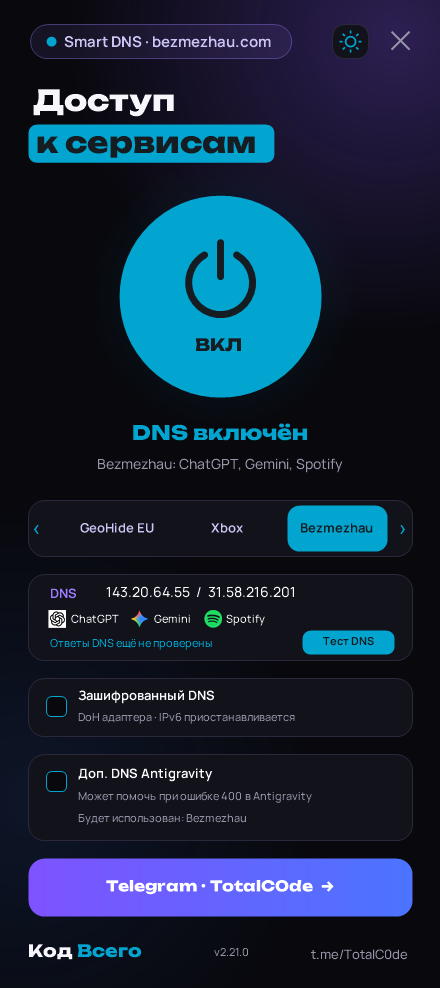
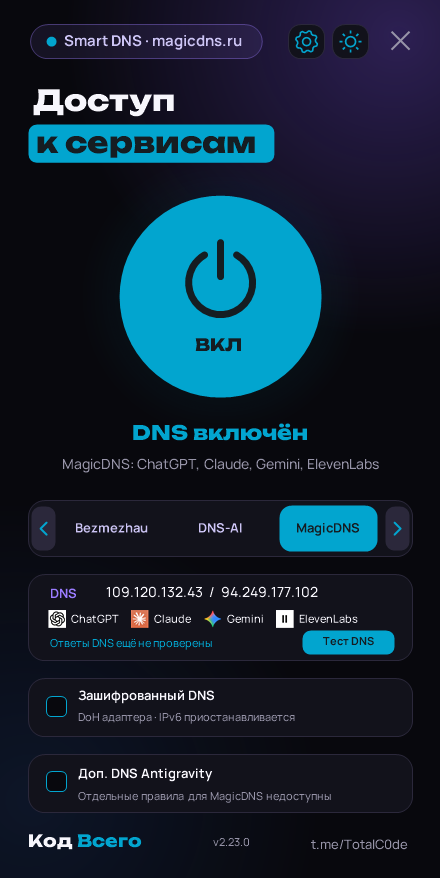
Add MagicDNS and clarify DoH availability; improve Android dialogs and widget fallback

diff --git a/XboxDns.cs b/XboxDns.cs
@@ -22,22 +22,22 @@ namespace HbAi.XboxDns
         // Сервисы Smart DNS. Проверено 12.10.2026 из России: Comss.one и GeoHide (Европа) отдают прокси для ChatGPT,
         // Claude, Gemini и ElevenLabs, российский узел GeoHide — для Gemini и ElevenLabs. xbox-dns.ru с 10.10.2026
         // нейросети не пропускает (0.0.0.0). Astracat (135.106.217.200) 12.10.2026 не отвечал, из списка убран.
-        public static readonly string[] Name = { "Comss.one", "GeoHide", "GeoHide EU", "Xbox DNS", "Bezmezhau", "DNS-AI" };
+        public static readonly string[] Name = { "Comss.one", "GeoHide", "GeoHide EU", "Xbox DNS", "Bezmezhau", "DNS-AI", "MagicDNS" };
         public static readonly string[][] V4 = {
             new[] { "83.220.169.155", "212.109.195.93" },
             new[] { "159.194.200.33", "193.233.112.67" },
             new[] { "143.20.64.192", "45.13.237.213" },
             new[] { "111.88.96.54", "111.88.96.55" },
             new[] { "143.20.64.55", "31.58.216.201" },
-            new[] { "194.87.196.13", "186.246.49.127" } };
+            new[] { "194.87.196.13", "186.246.49.127" }, new[] { "109.120.132.43", "94.249.177.102" } };
         public static readonly string[][] V6 = {
             new string[0], new string[0], new string[0],
-            new[] { "2a00:ab00:1233:26::50", "2a00:ab00:1233:26::51" }, new string[0], new string[0] };
+            new[] { "2a00:ab00:1233:26::50", "2a00:ab00:1233:26::51" }, new string[0], new string[0], new string[0] };
         public static readonly string[] Opens = {
             "ChatGPT, Claude, Gemini, ElevenLabs", "ChatGPT, Claude, Gemini, ElevenLabs",
-            "ChatGPT, Claude, Gemini, ElevenLabs", "только Xbox Live, нейросети — нет", "ChatGPT, Gemini, Spotify", "AI-сервисы · только DoH" };
-        public static readonly string[] Site = { "comss.ru", "geohide.ru", "geohide.ru", "xbox-dns.ru", "bezmezhau.com", "dns-ai.ru" };
-        public static readonly string[] Url = { "https://www.comss.ru/", "https://geohide.ru/", "https://geohide.ru/", "https://xbox-dns.ru/", "https://bezmezhau.com/", "https://dns-ai.ru/#setup" };
+            "ChatGPT, Claude, Gemini, ElevenLabs", "только Xbox Live, нейросети — нет", "ChatGPT, Gemini, Spotify", "AI-сервисы · только DoH", "ChatGPT, Claude, Gemini, ElevenLabs" };
+        public static readonly string[] Site = { "comss.ru", "geohide.ru", "geohide.ru", "xbox-dns.ru", "bezmezhau.com", "dns-ai.ru", "magicdns.ru" };
+        public static readonly string[] Url = { "https://www.comss.ru/", "https://geohide.ru/", "https://geohide.ru/", "https://xbox-dns.ru/", "https://bezmezhau.com/", "https://dns-ai.ru/#setup", "https://magicdns.ru/" };
         internal static bool EncryptedOnly(int provider) { return provider == 5; }
         // Старые адреса xbox-dns.ru из версии 1.0: если стоят они, показываем Xbox DNS
         static readonly string[] XboxOld = { "111.88.96.50", "111.88.96.51" };
@@ -1007,8 +1007,8 @@ namespace HbAi.XboxDns
             using (var body = UiFont(fMed, 8f))
             using (var ink = new SolidBrush(Ink))
             using (var muted = new SolidBrush(Muted)) {
-                g.DrawString("Зашифрованный DNS", title, ink, 76, LowerY(686));
-                g.DrawString(EncryptedDns.Templates[dnsSet] == null ? "DoH: Comss.one, GeoHide, Bezmezhau или DNS-AI" : secureDns && (agStatus.External || agStatus.Checked) ? "DoH · Antigravity по отдельным правилам" : "DoH адаптера · IPv6 приостанавливается", body, muted, 76, LowerY(710));
+                g.DrawString(EncryptedDns.Templates[dnsSet] == null ? "DoH недоступен" : "Зашифрованный DNS", title, ink, 76, LowerY(686));
+                g.DrawString(EncryptedDns.Templates[dnsSet] == null ? "У этого провайдера настроен только обычный DNS" : secureDns && (agStatus.External || agStatus.Checked) ? "DoH · Antigravity по отдельным правилам" : "DoH адаптера · IPv6 приостанавливается", body, muted, 76, LowerY(710));
             }
             using (var path = RoundPath(rAgOption, 16))
             using (var fill = new SolidBrush(CardBg))
@@ -1032,7 +1032,7 @@ namespace HbAi.XboxDns
                     agStatus.RecoveryNeeded ? "Снимите галочку: завершить восстановление" : agStatus.External ? "Есть правила другой программы" : agStatus.Checked ?
                     (agStatus.Complete ? (agStatus.Provider == 1 ? "Comss: смените DNS" : "Включено · " + (agStatus.Provider >= 0 ? AntigravityDns.ProviderNames[agStatus.Provider] : "DNS")) +
                         (agStatus.Provider != AntigravityDns.ProviderForMainSet(dnsSet) ? " · смена после отключения" : "") : "Включено частично · снимите для отмены") :
-                    (cleanupDone ? "Старые правила удалены" : secureDns ? "" : dnsSet == 0 ? "Comss для этой опции отключён" : dnsSet == 3 ? "Выберите DNS для нейросетей выше" : "Будет использован: " + Dns.Name[dnsSet]);
+                    (cleanupDone ? "Старые правила удалены" : secureDns ? "" : dnsSet == 0 ? "Comss для этой опции отключён" : dnsSet == 3 ? "Выберите DNS для нейросетей выше" : dnsSet == 6 ? "Отдельные правила для MagicDNS недоступны" : "Будет использован: " + Dns.Name[dnsSet]);
                 bool showCleanup = agStatus.External;
                 using (var format = new StringFormat { FormatFlags = StringFormatFlags.NoWrap, Trimming = StringTrimming.EllipsisCharacter })
                     g.DrawString(string.IsNullOrEmpty(note)?"Может помочь при ошибке 400 в Antigravity":note, body, muted, new RectangleF(76, LowerY(788), showCleanup ? W-242 : W-120, 22), format);
@@ -1158,9 +1158,10 @@ namespace HbAi.XboxDns
             if (rVersion.Contains(e.Location)) { ShowUpdates(); return; }
             if (initializing) return;
             if (rSecureOption.Contains(e.Location)) {
+                if (EncryptedDns.Templates[dnsSet] == null) return;
                 if (busy) return;
                 if (Dns.EncryptedOnly(dnsSet)) { ShowMessage("DNS-AI работает только через зашифрованный DNS. Шифрование для него обязательно.", "DNS-AI", MessageBoxButtons.OK, MessageBoxIcon.Information); return; }
-                if (!secureDns && EncryptedDns.Templates[dnsSet] == null) { ShowMessage("Выберите Comss.one, GeoHide, Bezmezhau или DNS-AI. Для остальных провайдеров параметры системного DoH пока не подтверждены.", "Зашифрованный DNS", MessageBoxButtons.OK, MessageBoxIcon.Information); return; }
+                if (!secureDns && EncryptedDns.Templates[dnsSet] == null) { ShowMessage("Выберите Comss.one, GeoHide, Bezmezhau, DNS-AI или MagicDNS. Для остальных провайдеров параметры системного DoH пока не подтверждены.", "Зашифрованный DNS", MessageBoxButtons.OK, MessageBoxIcon.Information); return; }
                 if (active) Apply(true, null, false, !secureDns); else { secureDns = !secureDns; Invalidate(); }
                 return;
             }
@@ -1191,7 +1192,7 @@ namespace HbAi.XboxDns
             double dx = e.X - c.X, dy = e.Y - c.Y;
             bool overPower = dx * dx + dy * dy <= rToggle.Width * rToggle.Width / 4.0;
             if (powerHovered != overPower) { powerHovered = overPower; Invalidate(rToggleGlow()); }
-            bool hand = rSettings.Contains(e.Location) || rVersion.Contains(e.Location) || rSecureOption.Contains(e.Location) || rAgOption.Contains(e.Location) || rTheme.Contains(e.Location) || rClose.Contains(e.Location) || rGroup.Contains(e.Location) || rSite.Contains(e.Location) || rBrand.Contains(e.Location) || ProviderBar.Contains(e.Location) || DnsTestButton.Contains(e.Location)
+            bool hand = rSettings.Contains(e.Location) || rVersion.Contains(e.Location) || (rSecureOption.Contains(e.Location) && EncryptedDns.Templates[dnsSet] != null) || rAgOption.Contains(e.Location) || rTheme.Contains(e.Location) || rClose.Contains(e.Location) || rGroup.Contains(e.Location) || rSite.Contains(e.Location) || rBrand.Contains(e.Location) || ProviderBar.Contains(e.Location) || DnsTestButton.Contains(e.Location)
                         || dx * dx + dy * dy <= rToggle.Width * rToggle.Width / 4.0;
             Cursor = hand && !busy ? Cursors.Hand : Cursors.Default;
             string tip = rSettings.Contains(e.Location)?"Настройки":providerPrevious.Contains(e.Location)?"Предыдущие 3 варианта":providerNext.Contains(e.Location)?"Следующие 3 варианта":rVersion.Contains(e.Location)?"Проверить обновления":rTheme.Contains(e.Location) ? (darkTheme ? "Светлая тема" : "Тёмная тема") : null;
@@ -1395,7 +1396,7 @@ namespace HbAi.XboxDns
         void RunDnsTest(StyledDialog dialog, int provider)
         {
             bool encrypted = secureDns || Dns.EncryptedOnly(provider);
-            if (encrypted && EncryptedDns.Templates[provider] == null) { dialog.ShowDnsTestStatus("Для этого провайдера HTTPS-тест пока недоступен. Выберите Comss.one, GeoHide, Bezmezhau или DNS-AI. Обычные DNS-запросы не отправлялись.", "Нет параметров DoH", false, true); return; }
+            if (encrypted && EncryptedDns.Templates[provider] == null) { dialog.ShowDnsTestStatus("Для этого провайдера HTTPS-тест пока недоступен. Выберите Comss.one, GeoHide, Bezmezhau, DNS-AI или MagicDNS. Обычные DNS-запросы не отправлялись.", "Нет параметров DoH", false, true); return; }
             if (!NetworkCheck.HasConnection()) { dialog.ShowDnsTestStatus(NetworkCheck.OfflineMessage, "Нет подключения", false, true); return; }
             var vpn = VpnCheck.Scan();
             if (vpn.NeedsAttention)
@@ -1429,8 +1430,8 @@ namespace HbAi.XboxDns
         {
             if (busy || (k == dnsSet && autoGoal < 0&&!UseDefaultGoal)) return;
             manualSelection=true;
-            if (active) Apply(true, k);
-            else { autoGoal = -1; dnsSet = k; if (Dns.EncryptedOnly(k)) secureDns = true; EnsureProviderVisible(); Invalidate(); }
+            if (active) Apply(true, k, encrypted: EncryptedDns.Templates[k] != null && secureDns || Dns.EncryptedOnly(k));
+            else { autoGoal = -1; dnsSet = k; if (Dns.EncryptedOnly(k)) secureDns = true; else if (EncryptedDns.Templates[k] == null) secureDns = false; EnsureProviderVisible(); Invalidate(); }
         }
 
         void Toggle()
@@ -1543,7 +1544,7 @@ namespace HbAi.XboxDns
         {
             int requestedSet = selectedSet ?? dnsSet;
             bool useEncrypted = (encrypted ?? secureDns) || Dns.EncryptedOnly(requestedSet);
-            if (turnOn && useEncrypted && EncryptedDns.Templates[requestedSet] == null) { ShowMessage("Для DoH выберите Comss.one, GeoHide, Bezmezhau или DNS-AI либо снимите галочку шифрования.", "DoH недоступен", MessageBoxButtons.OK, MessageBoxIcon.Information); return; }
+            if (turnOn && useEncrypted && EncryptedDns.Templates[requestedSet] == null) { ShowMessage("Для DoH выберите Comss.one, GeoHide, Bezmezhau, DNS-AI или MagicDNS либо снимите галочку шифрования.", "DoH недоступен", MessageBoxButtons.OK, MessageBoxIcon.Information); return; }
             bool keepAntigravity = false;
             if (turnOn)
             {

diff --git a/android/app/src/main/java/ru/kodvsego/smartdns/MainActivity.java b/android/app/src/main/java/ru/kodvsego/smartdns/MainActivity.java
@@ -25,11 +25,12 @@ public final class MainActivity extends Activity {
     private final ExecutorService tests=Executors.newSingleThreadExecutor();
     private android.content.SharedPreferences prefs;
     private boolean dark,rendering,testing,resumed;private int selected;
-    private LinearLayout content,serviceRow;private TextView state,addresses,probe;
+    private LinearLayout content,serviceRow;private TextView state,addresses,probe,encryptionHint;
     private PowerButton connect;private Button test;private Switch encrypted;private TextView providers;
     private int ink,muted,accent,card;
     private DnsConfig pending;
     private Dialog providerDialog;
+    private final java.util.List<Dialog> dialogs=new java.util.ArrayList<>();
     private Future<?> runningTest;private int testGeneration;
     private Typeface heading,body,bold;
     private final Map<String,Drawable.ConstantState> iconCache=new HashMap<>();
@@ -92,9 +93,9 @@ public final class MainActivity extends Activity {
         LinearLayout.LayoutParams pickerParams=new LinearLayout.LayoutParams(-1,-2);pickerParams.setMargins(0,dp(8),0,dp(12));selection.addView(providers,pickerParams);
         addresses=text("",13,ink,false);selection.addView(addresses);serviceRow=new LinearLayout(this);serviceRow.setOrientation(LinearLayout.VERTICAL);selection.addView(serviceRow);
         space(20);LinearLayout settings=box();
-        encrypted=new Switch(this);encrypted.setText(R.string.encrypted_dns);encrypted.setTypeface(body);encrypted.setTextColor(ink);encrypted.setMinHeight(dp(48));settings.addView(encrypted);
+        encrypted=new Switch(this);encrypted.setId(R.id.encrypted_dns_switch);encrypted.setText(R.string.encrypted_dns);encrypted.setTypeface(body);encrypted.setTextColor(ink);encrypted.setMinHeight(dp(48));settings.addView(encrypted);
         encrypted.setChecked(prefs.getBoolean("encrypted",false)||Provider.at(selected).encryptedOnly);
-        settings.addView(text("DoH шифрует DNS-запросы. При ошибке перехода на обычный DNS нет.",12,muted,false));
+        encryptionHint=text("",12,muted,false);settings.addView(encryptionHint);
         space(20);test=button(testing?"Остановить тест":"Тест DNS");content.addView(test);test.setOnClickListener(v->testDns());
         probe=text("Тест не меняет DNS. Проверяется ответ провайдера, а не доступ к аккаунту или сайту.",13,muted,false);content.addView(probe);
         space(20);Button widgets=secondaryButton("Добавить виджет");widgets.setId(R.id.add_widget);content.addView(widgets);widgets.setOnClickListener(v->chooseWidget());
@@ -141,6 +142,8 @@ public final class MainActivity extends Activity {
     }
     private void updateProvider() {
         Provider p=Provider.at(selected);
+        encrypted.setText(p.doh==null?"Зашифрованный DNS · недоступен":getString(R.string.encrypted_dns));
+        encryptionHint.setText(p.doh==null?"Для "+p.name+" настроен только обычный DNS.":"DoH шифрует DNS-запросы. При ошибке перехода на обычный DNS нет.");
         providers.setText(p.name);providers.setContentDescription("Провайдер DNS: "+p.name+". Выбрать другой");
         updatingProvider=true;
         if(p.encryptedOnly)encrypted.setChecked(true);else if(p.doh==null)encrypted.setChecked(false);
@@ -182,8 +185,10 @@ public final class MainActivity extends Activity {
     private void requestConnect() {
         try{pending=config();PhysicalNetwork.checkPrivateDns(this,PhysicalNetwork.find(this));}
         catch(Exception e){message("Не удалось подключиться",e.getMessage());return;}
-        if(PhysicalNetwork.otherVpn(this))new AlertDialog.Builder(this).setTitle("Другой VPN включён")
-            .setMessage("Android отключит другое VPN-подключение при включении Smart DNS. Продолжить?").setNegativeButton("Отмена",null).setPositiveButton("Продолжить",(d,w)->prepareVpn()).show();
+        if(PhysicalNetwork.otherVpn(this)){
+            CardDialog dialog=new CardDialog("Другой VPN включён","Android отключит другое VPN-подключение при включении Smart DNS. Продолжить?");
+            dialog.action("Продолжить",true,true,this::prepareVpn);dialog.action("Отмена",false,true,()->pending=null);dialog.show();
+        }
         else prepareVpn();
     }
     private void prepareVpn() {Intent permission=VpnService.prepare(this);if(permission==null)startDns();else startActivityForResult(permission,100);}
@@ -195,7 +200,29 @@ public final class MainActivity extends Activity {
         try{startForegroundService(start);}catch(Exception e){message("Ошибка подключения",e.getMessage());}pending=null;
     }
     @Override protected void onActivityResult(int request,int result,Intent data){super.onActivityResult(request,result,data);if(request==100){if(result==RESULT_OK){try{if(pending==null)pending=config();startDns();}catch(Exception e){message("Ошибка настройки",e.getMessage());}}else{pending=null;message("Подключение отменено","Разрешение VPN не предоставлено. DNS не изменён.");}}}
-    private void message(String title,String body){if(!isFinishing()&&!isDestroyed())new AlertDialog.Builder(this).setTitle(title).setMessage(body).setPositiveButton("Понятно",null).show();}
+    private void message(String title,String body){if(!isFinishing()&&!isDestroyed()){CardDialog dialog=new CardDialog(title,body);dialog.action("Понятно",true,true,()->{});dialog.show();}}
+    private final class CardDialog {
+        final Dialog dialog=new Dialog(MainActivity.this);
+        final LinearLayout panel=new LinearLayout(MainActivity.this);
+        final ScrollView scroll=new ScrollView(MainActivity.this);
+        final TextView description;
+        CardDialog(String title,String message){
+            dialog.requestWindowFeature(Window.FEATURE_NO_TITLE);panel.setOrientation(LinearLayout.VERTICAL);panel.setPadding(dp(24),dp(24),dp(24),dp(24));panel.setBackground(shape(card,24));
+            TextView heading=text(title,21,ink,true);panel.addView(heading);
+            description=text(message,14,muted,false);LinearLayout.LayoutParams textParams=new LinearLayout.LayoutParams(-1,-2);textParams.topMargin=dp(12);textParams.bottomMargin=dp(12);panel.addView(description,textParams);
+            scroll.setVerticalScrollBarEnabled(false);scroll.addView(panel);dialog.setContentView(scroll);
+            dialog.setOnDismissListener(d->dialogs.remove(dialog));dialogs.add(dialog);
+        }
+        void action(String label,boolean primary,boolean close,Runnable action){
+            Button button=primary?button(label):secondaryButton(label);LinearLayout.LayoutParams params=new LinearLayout.LayoutParams(-1,-2);params.topMargin=dp(12);panel.addView(button,params);
+            button.setOnClickListener(v->{if(close)dialog.dismiss();action.run();});
+        }
+        void show(){
+            if(isFinishing()||isDestroyed()){dialog.dismiss();return;}
+            Window window=dialog.getWindow();if(window!=null){window.setBackgroundDrawableResource(android.R.color.transparent);window.addFlags(WindowManager.LayoutParams.FLAG_DIM_BEHIND);window.setDimAmount(.6f);window.setWindowAnimations(R.style.ProviderSheetMotion);}
+            dialog.show();if(window!=null){int width=Math.min(getResources().getDisplayMetrics().widthPixels-dp(32),dp(440));int maxHeight=(int)(getResources().getDisplayMetrics().heightPixels*.85f);scroll.measure(View.MeasureSpec.makeMeasureSpec(width,View.MeasureSpec.EXACTLY),View.MeasureSpec.makeMeasureSpec(maxHeight,View.MeasureSpec.AT_MOST));window.setLayout(width,Math.min(scroll.getMeasuredHeight(),maxHeight));}
+        }
+    }
     private void testDns() {
         if(testing){testGeneration++;if(runningTest!=null)runningTest.cancel(true);testing=false;test.setText(R.string.test_dns);probe.setText(R.string.test_stopped);updateState();return;}
         final DnsConfig config;try{config=config();}catch(Exception e){message("Ошибка настройки",e.getMessage());return;}
@@ -226,11 +253,20 @@ public final class MainActivity extends Activity {
         else scroll.setPadding(insets.getSystemWindowInsetLeft(),insets.getSystemWindowInsetTop(),insets.getSystemWindowInsetRight(),insets.getSystemWindowInsetBottom());
     }
     private void chooseWidget(){
-        new AlertDialog.Builder(this).setTitle("Виджеты Smart DNS").setItems(new String[]{"Компактный · 2 × 1","Расширенный · 4 × 2"},(dialog,which)->{
-            AppWidgetManager manager=AppWidgetManager.getInstance(this);
-            if(manager.isRequestPinAppWidgetSupported())manager.requestPinAppWidget(new ComponentName(this,which==0?CompactDnsWidget.class:DnsWidget.class),null,null);
-            else message("Добавление виджета","Удерживайте пустое место на главном экране, откройте «Виджеты» и выберите Smart DNS.");
-        }).setNegativeButton("Отмена",null).show();
+        CardDialog dialog=new CardDialog("Виджеты Smart DNS","Выберите размер. Если лаунчер не показывает окно добавления, используйте ручной способ ниже.");
+        dialog.action("Компактный · 2 × 1",true,false,()->pinWidget(dialog,CompactDnsWidget.class));
+        dialog.action("Расширенный · 4 × 2",false,false,()->pinWidget(dialog,DnsWidget.class));
+        dialog.action("Как добавить вручную",false,true,()->message("Добавить виджет вручную",widgetInstructions()));
+        dialog.action("Закрыть",false,true,()->{});dialog.show();
+    }
+    private String widgetInstructions(){return getString(R.string.widget_manual_instructions);}
+    private void pinWidget(CardDialog dialog,Class<?> type){
+        AppWidgetManager manager=AppWidgetManager.getInstance(this);
+        WidgetPinning.Result result=WidgetPinning.request(new WidgetPinning.Launcher(){
+            public boolean supported(){return manager.isRequestPinAppWidgetSupported();}
+            public boolean request(){return manager.requestPinAppWidget(new ComponentName(MainActivity.this,type),null,null);}
+        });
+        dialog.description.setText(getString(result==WidgetPinning.Result.REQUESTED?R.string.widget_pin_requested:R.string.widget_pin_manual,widgetInstructions()));
     }
     private void handleWidgetIntent(){
         if(!DnsWidget.CONNECT.equals(getIntent().getAction()))return;
@@ -244,5 +280,5 @@ public final class MainActivity extends Activity {
     }
     @Override protected void onResume(){super.onResume();resumed=true;settleMotion();lastUiState=null;updateState();connect.resumeUi();handler.removeCallbacks(refresh);handler.post(refresh);DnsWidget.updateAll(this);}
     @Override protected void onPause(){resumed=false;handler.removeCallbacks(refresh);settleMotion();if(connect!=null)connect.pauseUi();super.onPause();}
-    @Override protected void onDestroy(){if(providerDialog!=null)providerDialog.dismiss();handler.removeCallbacksAndMessages(null);tests.shutdownNow();super.onDestroy();}
+    @Override protected void onDestroy(){if(providerDialog!=null)providerDialog.dismiss();for(Dialog dialog:new java.util.ArrayList<>(dialogs))dialog.dismiss();handler.removeCallbacksAndMessages(null);tests.shutdownNow();super.onDestroy();}
 }

diff --git a/tests/DnsProbe.Tests.cs b/tests/DnsProbe.Tests.cs
@@ -47,6 +47,8 @@ static class ProbeTests
         Check(Dns.MatchProvider(new[] {"195.133.25.16", "192.0.2.53"}) == -1, "Mixed encrypted Comss and custom resolver is rejected");
         Check(Dns.V4[0].SequenceEqual(new[] {"83.220.169.155", "212.109.195.93"}), "Comss plain DNS remains separate from its encrypted address");
         Check(Dns.EncryptedOnly(5) && EncryptedDns.Templates[5] == "https://dns.dns-ai.ru/dns-query" && Dns.V4[5].SequenceEqual(new[]{"194.87.196.13","186.246.49.127"}), "DNS-AI uses published addresses and requires encryption");
+        Check(Dns.Name[6]=="MagicDNS" && Dns.V4[6].SequenceEqual(new[]{"109.120.132.43","94.249.177.102"}) && EncryptedDns.Templates[6]=="https://dns.magicdns.ru/dns-query" && !Dns.EncryptedOnly(6), "MagicDNS supports published plain and HTTPS endpoints");
+        Check(new[]{Dns.V4.Length,Dns.V6.Length,Dns.Site.Length,Dns.Url.Length,Dns.Opens.Length,EncryptedDns.Templates.Length}.All(n=>n==Dns.Name.Length), "Provider metadata stays aligned for DNS changes and restoration");
         Check(DnsProbe.Targets(5).SequenceEqual(new[]{EncryptedDns.Templates[5]}), "DNS-AI tests target HTTPS only, not port 53");
         Check(DnsProbe.HostsForProvider(5).Contains("gemini.google.com") && DnsProbe.HostsForProvider(5).Contains("generativelanguage.googleapis.com"), "DNS-AI checks both Gemini website and API");
         var geminiResults = DnsProbe.CheckProvider(5,(server,host)=>new DnsProbeResult{Server=server,Host=host,Milliseconds=15,Error=host=="gemini.google.com"?"Gemini test failure":null});
@@ -60,7 +62,7 @@ static class ProbeTests
         {
             var hosts = DnsProbe.HostsForProvider(k);
             Check(hosts.Contains("example.com") && hosts.Distinct().Count() == hosts.Length, Dns.Name[k] + " has a unique test suite and baseline");
-            Check(k == 3 ? hosts.Contains("xsts.auth.xboxlive.com") && !hosts.Contains("claude.ai") : hosts.Contains("cloudcode-pa.googleapis.com"), Dns.Name[k] + " tests its intended services");
+            Check(k == 3 ? hosts.Contains("xsts.auth.xboxlive.com") && !hosts.Contains("claude.ai") : k == 6 ? hosts.Contains("gemini.google.com") && hosts.Contains("claude.ai") && !hosts.Contains("cloudcode-pa.googleapis.com") : hosts.Contains("cloudcode-pa.googleapis.com"), Dns.Name[k] + " tests its intended services");
             var results = DnsProbe.CheckProvider(k, (server,host) => new DnsProbeResult {Server=server,Host=host,Milliseconds=12,Error=host=="example.com"?null:"simulated failure"});
             Check(results.Length == hosts.Length * DnsProbe.Targets(k).Length && DnsProbe.Targets(k).All(server => results.Count(r=>r.Server==server) == hosts.Length), Dns.Name[k] + " tests every host on each selected transport target");
             string report = DnsProbe.Report(k,results);

diff --git a/tests/DnsElevation.Tests.cs b/tests/DnsElevation.Tests.cs
@@ -57,7 +57,7 @@ static class ElevationTests
                 Assert(DnsRequest.TryParse(request.Arguments.Split(' '),out parsed) && parsed.Set==200+provider,"Encrypted provider changed");
             }
             DnsRequest rejected; var good=Request(true,200).Arguments;
-            Assert(!DnsRequest.TryParse(good.Replace("secure-enable 0","secure-enable 6").Split(' '),out rejected),"Unknown encrypted provider accepted");
+            Assert(!DnsRequest.TryParse(good.Replace("secure-enable 0","secure-enable 7").Split(' '),out rejected),"Unknown encrypted provider accepted");
             Assert(!DnsRequest.TryParse(good.Replace("secure-enable 0","secure-enable https://example.com").Split(' '),out rejected),"Arbitrary template accepted");
         });
         Test("Keeping Antigravity requires a separate constrained action", () => {
@@ -68,7 +68,7 @@ static class ElevationTests
                 Assert(DnsRequest.TryParse(request.Arguments.Split(' '), out parsed) && parsed.Enable && parsed.Set == 300 + provider, "Consent flag lost");
             }
             string good = Request(true, 300).Arguments; DnsRequest rejected;
-            foreach (string value in new[] {"-1", "6", "https://example.com"})
+            foreach (string value in new[] {"-1", "7", "https://example.com"})
                 Assert(!DnsRequest.TryParse(good.Replace("secure-keep-ag 0", "secure-keep-ag " + value).Split(' '), out rejected), "Unbounded consent action");
             int code; var reply = Exchange(Request(true, 300), (on, set) => {Assert(on && set == 300, "Wrong consent operation"); return null;}, out code);
             Assert(code == 0 && reply.Code == 0, "Consent operation failed IPC");
@@ -91,7 +91,7 @@ static class ElevationTests
         Test("Arbitrary commands and malformed arguments are rejected", () => {
             string good = Request(true, 0).Arguments;
             foreach (string invalid in new[] { "", good + " extra", good.Replace("enable", "script"),
-                good.Replace("enable 0", "enable 6"), good.Replace("enable 0", "enable -1"),
+                good.Replace("enable 0", "enable 7"), good.Replace("enable 0", "enable -1"),
                 good.Replace("enable 0", "restore 3"), good.Replace("enable 0", "restore 1"),
                 good.Replace("enable 0", "reset-known 1"), "--dns-operation enable 0 not-a-guid 1",
                 good.Replace("enable 0", "ag-enable 4"), good.Replace("enable 0", "ag-disable 1"),

diff --git a/EncryptedDns.cs b/EncryptedDns.cs
@@ -24,7 +24,7 @@ namespace HbAi.XboxDns
     {
         internal static string Run(int provider, bool keepAntigravity = false)
         {
-            if (provider < 0 || provider >= Templates.Length || Templates[provider] == null) return "Для DoH выберите Comss.one, GeoHide, Bezmezhau или DNS-AI.";
+            if (provider < 0 || provider >= Templates.Length || Templates[provider] == null) return "Для DoH выберите Comss.one, GeoHide, Bezmezhau, DNS-AI или MagicDNS.";
             try
             {
                 // Inspect persisted local AND organization policies, without depending on
@@ -53,7 +53,7 @@ namespace HbAi.XboxDns
             return "Обнаружены отдельные DNS-правила: " + domains + ".\n\nОтключите DNS-настройку прежнего анлокера и повторите попытку. Для полного шифрования эти правила должны быть отключены.";
         }
         // Only provider/IP combinations with a verified HTTPS endpoint are offered.
-        internal static readonly string[] Templates = { "https://dns.comss.one/dns-query", "https://geohide.ru/dns-query", null, null, "https://dns.bezmezhau.com/dns-query", "https://dns.dns-ai.ru/dns-query" };
+        internal static readonly string[] Templates = { "https://dns.comss.one/dns-query", "https://geohide.ru/dns-query", null, null, "https://dns.bezmezhau.com/dns-query", "https://dns.dns-ai.ru/dns-query", "https://dns.magicdns.ru/dns-query" };
         internal static bool ExplicitlyConfigured(FamilyBackup settings, int provider)
         {
             return settings.DohCaptured && settings.Servers.Length > 0 && settings.Doh != null && settings.Doh.Length == settings.Servers.Length &&

diff --git a/tests/AutoDns.Tests.cs b/tests/AutoDns.Tests.cs
@@ -31,9 +31,9 @@ static class AutoDnsTests
         Check(AutoDns.GoalIndex("ChatGPT")==1&&AutoDns.GoalIndex("gemini")==0&&AutoDns.GoalIndex(null)==-1&&AutoDns.GoalIndex("obsolete service")==-1,"Saved service names reload safely without relying on numeric order");
         Check(!AutoDns.Candidates(0,false).Contains(3)&&AutoDns.Candidates(5,false).SequenceEqual(new[]{3}),"Xbox and AI candidates remain separate");
         Check(!AutoDns.Candidates(6,false).Contains(0)&&!AutoDns.Candidates(2,false).Contains(4),"Unsupported Comss Antigravity and Bezmezhau Claude combinations excluded");
-        Check(AutoDns.Candidates(0,true).SequenceEqual(new[]{0,1,4,5})&&!AutoDns.Candidates(5,true).Any(),"Strict encryption never downgrades to unencrypted EU or Xbox");
+        Check(AutoDns.Candidates(0,true).SequenceEqual(new[]{0,1,4,5,6})&&!AutoDns.Candidates(5,true).Any(),"Strict encryption never downgrades to unencrypted EU or Xbox");
         var fake=new Probe();var results=AutoDns.Search(0,false,fake,CancellationToken.None);
-        Check(results.Length==5&&AutoDns.Best(results).Provider==1,"Only a candidate with both DNS and HTTPS succeeds");
+        Check(results.Length==6&&AutoDns.Best(results).Provider==1,"Only a candidate with both DNS and HTTPS succeeds");
         Check(fake.badAddressAttempts==1,"Failed relay IP is tried before alternative resolved address");
         string diagnostic=AutoDns.Diagnostic(0,results);
         Check(diagnostic.Contains("Auto goal=Gemini")&&diagnostic.Contains("109.120.131.201")&&diagnostic.Contains("simulated relay timeout")&&diagnostic.Contains("HTTPS OK")&&diagnostic.Contains("Total=")&&diagnostic.Contains("IOException"),"Developer log keeps failed IP attempts, error type, timings and eventual success");

diff --git a/android/app/src/test/java/ru/kodvsego/smartdns/DnsCoreTest.java b/android/app/src/test/java/ru/kodvsego/smartdns/DnsCoreTest.java
@@ -22,8 +22,8 @@ public class DnsCoreTest {
     }
     static IpPacket tcp(long seq,long ack,int flags,byte[] data) throws Exception {byte[] p=packet(6,seq,ack,flags,data);return IpPacket.parse(p,p.length);}
     static final byte[] EMPTY=new byte[0];
-    @Test public void sixProvidersMatchWindows(){assertEquals(6,Provider.ALL.length);assertEquals("DNS-AI",Provider.at(5).name);assertEquals("194.87.196.13",Provider.at(5).servers[0]);}
-    @Test public void invalidProviderRejected(){fails(()->Provider.at(-1));fails(()->Provider.at(6));}
+    @Test public void providersMatchWindows(){assertEquals(7,Provider.ALL.length);assertEquals("DNS-AI",Provider.at(5).name);assertEquals("194.87.196.13",Provider.at(5).servers[0]);assertEquals("MagicDNS",Provider.at(6).name);assertArrayEquals(new String[]{"109.120.132.43","94.249.177.102"},Provider.at(6).servers);assertEquals("https://dns.magicdns.ru/dns-query",Provider.at(6).doh);}
+    @Test public void invalidProviderRejected(){fails(()->Provider.at(-1));fails(()->Provider.at(Provider.ALL.length));}
     @Test public void encryptedOnlyCannotDowngrade(){assertTrue(new DnsConfig(5,false).encrypted);}
     @Test public void missingDohCannotDowngrade(){fails(()->new DnsConfig(2,true));fails(()->new DnsConfig(3,true));}
     @Test public void queryRoundTrip() throws Exception{byte[] q=DnsWire.query("Gemini.Google.Com");assertEquals("gemini.google.com",DnsWire.question(q).host);assertEquals(1,DnsWire.question(q).type);}

diff --git a/AutoDns.cs b/AutoDns.cs
@@ -42,10 +42,10 @@ namespace HbAi.XboxDns
         internal static int GoalIndex(string name)
         {return Array.FindIndex(Goals,goal=>string.Equals(goal.Name,name,StringComparison.OrdinalIgnoreCase));}
         internal static readonly AutoGoal[] Goals = {
-            new AutoGoal {Name="Gemini", Hosts=new[]{"gemini.google.com"}, Providers=new[]{0,1,2,4,5}},
-            new AutoGoal {Name="ChatGPT", Hosts=new[]{"chatgpt.com"}, Providers=new[]{0,1,2,4,5}},
-            new AutoGoal {Name="Claude", Hosts=new[]{"claude.ai"}, Providers=new[]{0,1,2,5}},
-            new AutoGoal {Name="ElevenLabs", Hosts=new[]{"elevenlabs.io"}, Providers=new[]{0,1,2,5}},
+            new AutoGoal {Name="Gemini", Hosts=new[]{"gemini.google.com"}, Providers=new[]{0,1,2,4,5,6}},
+            new AutoGoal {Name="ChatGPT", Hosts=new[]{"chatgpt.com"}, Providers=new[]{0,1,2,4,5,6}},
+            new AutoGoal {Name="Claude", Hosts=new[]{"claude.ai"}, Providers=new[]{0,1,2,5,6}},
+            new AutoGoal {Name="ElevenLabs", Hosts=new[]{"elevenlabs.io"}, Providers=new[]{0,1,2,5,6}},
             new AutoGoal {Name="Spotify", Hosts=new[]{"open.spotify.com"}, Providers=new[]{4}},
             new AutoGoal {Name="Xbox", Hosts=new[]{"xbox.com"}, Providers=new[]{3}},
             new AutoGoal {Name="Antigravity", Hosts=new[]{"cloudcode-pa.googleapis.com","daily-cloudcode-pa.googleapis.com"}, Providers=new[]{1,2,4,5}, Api=true}

diff --git a/android/app/src/test/java/ru/kodvsego/smartdns/AndroidLifecycleTest.java b/android/app/src/test/java/ru/kodvsego/smartdns/AndroidLifecycleTest.java
@@ -78,6 +78,17 @@ public class AndroidLifecycleTest {
     @Test public void providerCannotBeChangedDuringConnection() {
         blockedService(true);MainActivity app=screen();assertFalse(app.findViewById(R.id.dns_provider).isEnabled());
     }
+    @Test public void unsupportedEncryptionIsExplicitAndMagicDnsRemainsSelectable() {
+        MainActivity app=screen();
+        for(int provider:new int[]{2,3,6}){
+            app.findViewById(R.id.dns_provider).performClick();android.app.Dialog dialog=org.robolectric.shadows.ShadowDialog.getLatestDialog();
+            dialog.findViewById(R.id.provider_sheet).findViewWithTag("provider-"+provider).performClick();
+            android.widget.Switch encryption=app.findViewById(R.id.encrypted_dns_switch);
+            assertEquals(provider==6,encryption.isEnabled());
+            assertEquals(provider!=6,encryption.getText().toString().contains("недоступен"));
+            assertFalse(encryption.isChecked());
+        }
+    }
     @Test @Config(sdk=35) public void contentStaysOutsideSystemBarsWhenScrolled() {
         MainActivity app=screen();ScrollView scroll=(ScrollView)((FrameLayout)app.findViewById(android.R.id.content)).getChildAt(0);
         WindowInsets insets=new WindowInsets.Builder().setInsets(WindowInsets.Type.systemBars(),android.graphics.Insets.of(0,28,0,32)).build();

diff --git a/android/app/src/test/java/ru/kodvsego/smartdns/WidgetPinningTest.java b/android/app/src/test/java/ru/kodvsego/smartdns/WidgetPinningTest.java
@@ -1,0 +1,14 @@
+package ru.kodvsego.smartdns;
+
+import org.junit.Test;
+import static org.junit.Assert.*;
+
+public class WidgetPinningTest {
+    @Test public void unsupportedLauncherDoesNotReceiveRequest(){
+        assertEquals(WidgetPinning.Result.MANUAL,WidgetPinning.request(new WidgetPinning.Launcher(){public boolean supported(){return false;}public boolean request(){throw new AssertionError("unsupported request");}}));
+    }
+    @Test public void rejectionOffersManualInstallation(){assertEquals(WidgetPinning.Result.MANUAL,WidgetPinning.request(launcher(false,false)));}
+    @Test public void brokenLauncherOffersManualInstallation(){assertEquals(WidgetPinning.Result.MANUAL,WidgetPinning.request(launcher(false,true)));}
+    @Test public void acceptedRequestIsNotReportedAsInstalled(){assertEquals(WidgetPinning.Result.REQUESTED,WidgetPinning.request(launcher(true,false)));}
+    private WidgetPinning.Launcher launcher(boolean accepted,boolean broken){return new WidgetPinning.Launcher(){public boolean supported(){return true;}public boolean request(){if(broken)throw new SecurityException("launcher rejected request");return accepted;}};}
+}

diff --git a/android/app/src/main/java/ru/kodvsego/smartdns/Provider.java b/android/app/src/main/java/ru/kodvsego/smartdns/Provider.java
@@ -15,7 +15,8 @@ public final class Provider {
         new Provider("GeoHide EU", new String[]{"143.20.64.192", "45.13.237.213"}, null, false, "ChatGPT", "Claude", "Gemini", "ElevenLabs"),
         new Provider("Xbox DNS", new String[]{"111.88.96.54", "111.88.96.55"}, null, false, "Xbox"),
         new Provider("Bezmezhau", new String[]{"143.20.64.55", "31.58.216.201"}, "https://dns.bezmezhau.com/dns-query", false, "ChatGPT", "Gemini", "Spotify"),
-        new Provider("DNS-AI", new String[]{"194.87.196.13", "186.246.49.127"}, "https://dns.dns-ai.ru/dns-query", true, "ChatGPT", "Claude", "Gemini", "ElevenLabs")
+        new Provider("DNS-AI", new String[]{"194.87.196.13", "186.246.49.127"}, "https://dns.dns-ai.ru/dns-query", true, "ChatGPT", "Claude", "Gemini", "ElevenLabs"),
+        new Provider("MagicDNS", new String[]{"109.120.132.43", "94.249.177.102"}, "https://dns.magicdns.ru/dns-query", false, "ChatGPT", "Claude", "Gemini", "ElevenLabs")
     };
     public static Provider at(int index) {
         if (index < 0 || index >= ALL.length) throw new IllegalArgumentException("Неизвестный DNS-провайдер");

diff --git a/DnsProbe.cs b/DnsProbe.cs
@@ -123,6 +123,7 @@ namespace HbAi.XboxDns
         {
             if (provider < 0 || provider >= Dns.Name.Length) throw new ArgumentOutOfRangeException("provider");
             if (provider == 3) return new[] { "example.com", "xbox.com", "user.auth.xboxlive.com", "xsts.auth.xboxlive.com" };
+            if (provider == 6) return new[] { "example.com", "chatgpt.com", "claude.ai", "gemini.google.com", "elevenlabs.io" };
             if (provider == 4) return new[] { "example.com", "chatgpt.com", "generativelanguage.googleapis.com", "open.spotify.com", "cloudcode-pa.googleapis.com", "daily-cloudcode-pa.googleapis.com" };
             if (provider == 5) return new[] { "example.com", "chatgpt.com", "claude.ai", "gemini.google.com", "generativelanguage.googleapis.com", "api.elevenlabs.io", "cloudcode-pa.googleapis.com", "daily-cloudcode-pa.googleapis.com" };
             return new[] { "example.com", "chatgpt.com", "claude.ai", "generativelanguage.googleapis.com", "api.elevenlabs.io", "cloudcode-pa.googleapis.com", "daily-cloudcode-pa.googleapis.com" };
